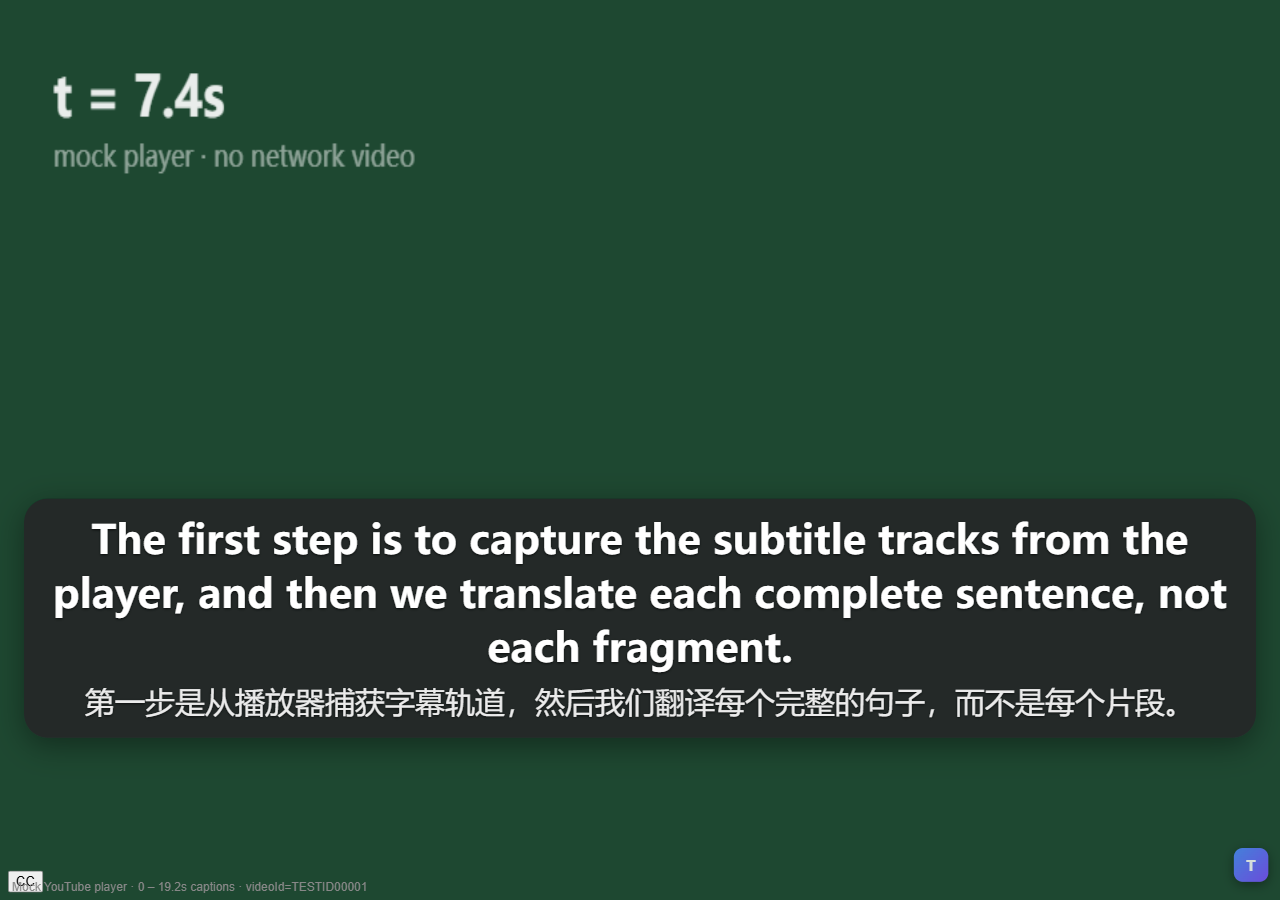
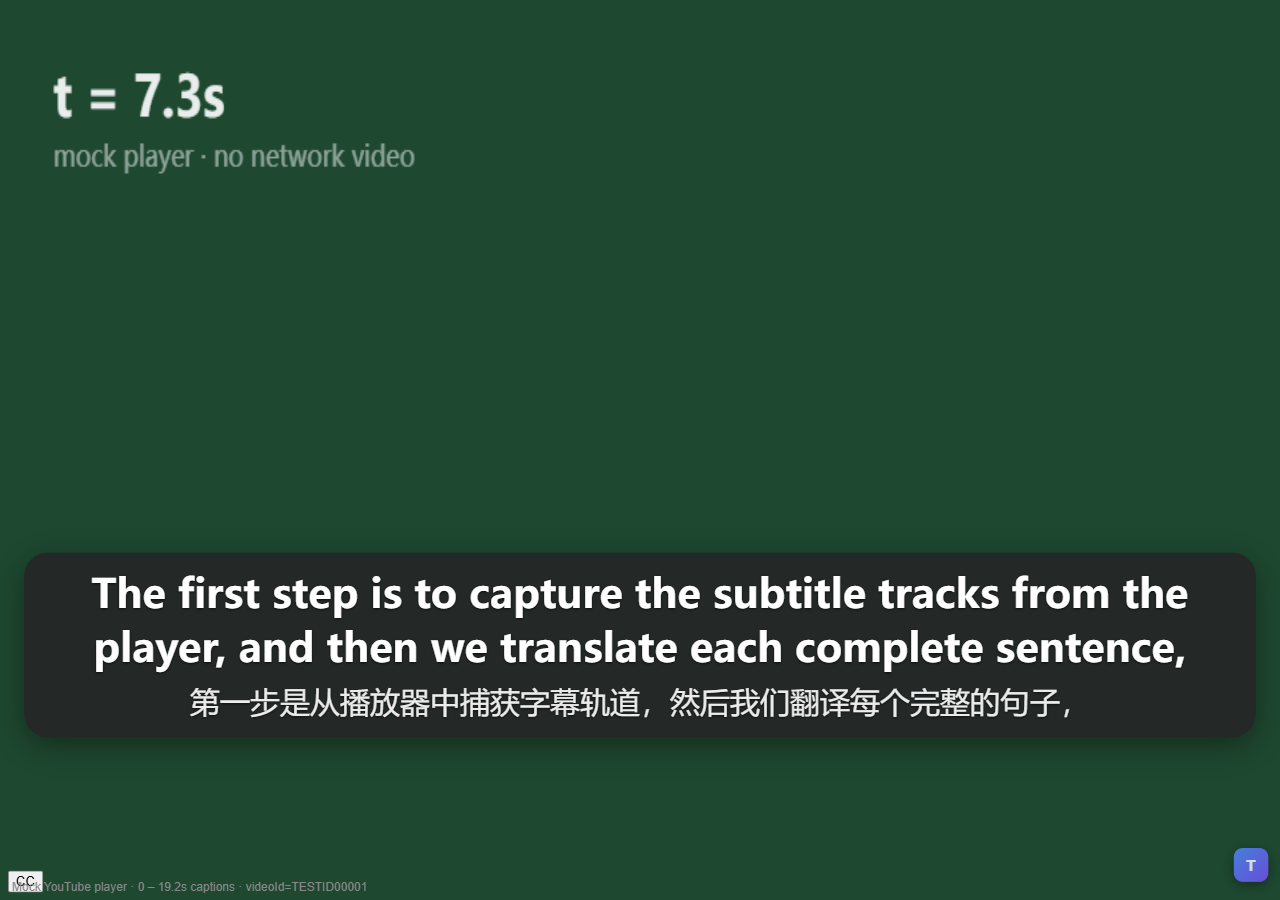
fix: 长句不折行导致字幕框过高（maxLen 180→120 + 二次切分 + 自适应缩小）
截图里那句 190 字符的英文正好逃过 180 阈值，一整句撑满两行、配中文三行，
框高 171px 占 900px 画面的 19%，盖掉近四分之一画面。

分两层修，单靠哪一层都不够：
1. maxLen 180→120，新增 splitLong() 二次切分。不是按 120 硬切 ——
   硬切会把词切两半、也会切出 18 字符的孤儿片段。做法是先算段数再均分，
   在 target±35% 内优先断在逗号处，其次找「最近」的空格（取最靠后会切出
   超过 maxLen 的段，第一版就犯了这个错，实测切出 134 字符）。尾巴短于
   26 字符并回上一段。切段后时间轴按字符数比例分配，否则 findByTime
   只命中第一段。
2. fitToFrame() 兜底。字号可调到 48px、全屏还有 --trace-vscale 放大，
   拆分拦不住。框高超过画面 55% 就缩 --trace-fit，下限 0.62。

实测（1440x900、同一句 190 字符）：
  旧           171px  19.0%  —
  新           103px  11.4%  fit=1
  新+48px/1.6  498px  55.3%  fit=0.936
修复后长句与短句框高都是 103px，框高不再随句长变化。

十套回归全绿；README 新增 bug 14 与 splitLong/fitToFrame 两节说明。

Changed region(s): [[0.0, 0.5289, 1.0, 0.8089], [0.125, 0.0622, 0.1562, 0.1244]]

diff --git a/trace-subtitles/subtitles.js b/trace-subtitles/subtitles.js
@@ -13,6 +13,67 @@
 
   const SENT_END = /[.!?。！？…]["'”’)）\]]*\s*$/;
   const CLAUSE_END = /[,;:，；：、]\s*$/;
+  /** 拆分后每段的最小长度，太短的尾巴（"not each fragment."）要并进相邻段 */
+  const MIN_PART = 26;
+
+  /**
+   * 把一句太长的文本切成若干段，每段尽量不超过 maxLen。
+   *
+   * 为什么不用「按 maxLen 硬切」：硬切会把词切两半、也会切出 "not each
+   * fragment." 这种 18 字符的孤儿片段，单独闪一下反而更打断阅读。
+   * 所以先算需要几段（n），再按 n 均分（target），并在接近 target 时
+   * 优先断在逗号/分号后面 —— 断在标点处的语义完整性最好。
+   */
+  function splitLong(text, maxLen) {
+    const t = String(text || '').trim();
+    if (!t || t.length <= maxLen) return [{ text: t }];
+
+    const n = Math.ceil(t.length / maxLen);
+    const target = Math.ceil(t.length / n);
+
+    // 先找标点位置（逗号类），断点优先落在这些位置之后
+    const clauseAt = [];
+    const reClause = /[,;:，；：、]\s+/g;
+    let mc;
+    while ((mc = reClause.exec(t))) clauseAt.push(mc.index + mc[0].length);
+
+    const parts = [];
+    let rest = t;
+    while (rest.length > target && parts.length < n - 1) {
+      const lo = Math.max(MIN_PART, Math.floor(target * 0.65));
+      const hi = Math.min(rest.length - MIN_PART, Math.ceil(target * 1.35));
+      let cut = -1;
+      // 优先：该范围内的标点断点
+      for (const p of clauseAt) {
+        if (p >= lo && p <= hi) { cut = p; break; }
+      }
+      if (cut < 0) {
+        // 其次：从 target 往外找最近的空格（先往下、再往上）。
+        // 必须「就近」而不是「最靠后」—— 取最靠后会切出超过 maxLen 的长段，
+        // 等于白拆。
+        for (let d = 0; d <= target && cut < 0; d++) {
+          for (const i of [target - d, target + d]) {
+            if (i >= lo && i <= hi && rest[i] === ' ') { cut = i + 1; break; }
+          }
+        }
+      }
+      if (cut < 0) {
+        // 整段没有空格（极端 ASR 产物）→ 只能硬切，否则死循环
+        cut = Math.min(target, rest.length);
+      }
+      parts.push(rest.slice(0, cut).trim());
+      rest = rest.slice(cut).trim();
+      if (!rest) break;
+    }
+    if (rest) parts.push(rest);
+
+    // 尾巴过短就并回上一段（宁可让上一段略长，也不要单独闪一个短片段）
+    if (parts.length > 1 && parts[parts.length - 1].length < MIN_PART) {
+      const tail = parts.pop();
+      parts[parts.length - 1] += ' ' + tail;
+    }
+    return parts.map((p) => ({ text: p }));
+  }
 
   /** 解析 json3 */
   function parseJson3(text) {
@@ -82,15 +143,42 @@
    * 把碎片行合并成句子。
    * 规则：遇到句末标点就收句；单句过长（>maxLen）在逗号处断开；
    * 相邻行间隔过大（>gap）也断开。
+   *
+   * maxLen 从 180 收到 120：
+   *   180 的时候，字幕框最宽可到 1180px，一句 130 字符的英文能撑满两行、
+   *   配上中文三行，整个框能占到画面高度的 40%（见 README 的「长句折行」一节）。
+   *   收到 120 之后，多数长句会在逗号处断成两段，每段一行，框高收敛到两行左右。
+   *   代价是「半句」也会被当成一段送翻译 —— 机翻按逗号断句是可接受的，
+   *   而断在逗号处的语义完整性比断在任意位置好得多。
    */
-  function segment(rows, { maxLen = 180, gap = 2.0 } = {}) {
+  function segment(rows, { maxLen = 120, gap = 2.0 } = {}) {
     const sentences = [];
     let cur = null;
 
     const flush = () => {
       if (cur && cur.text.trim()) {
         cur.text = cur.text.replace(/\s+/g, ' ').trim();
-        sentences.push(cur);
+        // 太长的句子（没有逗号可断的那种）交给 splitLong 二次切分
+        const parts = splitLong(cur.text, maxLen);
+        if (parts.length <= 1) {
+          sentences.push(cur);
+        } else {
+          // 切成了多段：时间轴按字符数比例分配，否则 findByTime 只会命中第一段，
+          // 后面几段永远显示不出来。
+          const total = cur.text.length;
+          const span = Math.max(0.3, cur.end - cur.start);
+          let acc = 0;
+          for (const part of parts) {
+            const share = part.text.length / total;
+            sentences.push({
+              ...cur,
+              start: cur.start + span * acc,
+              end: cur.start + span * (acc + share),
+              text: part.text,
+            });
+            acc += share;
+          }
+        }
       }
       cur = null;
     };

diff --git a/trace-subtitles/content.js b/trace-subtitles/content.js
@@ -706,6 +706,33 @@
     }
     // 句子变长/变短后框高可能变化，自由模式下重新夹一次纵向位置，避免下半截出画面
     if (state.settings?.freePos) reapplyFreePos();
+    fitToFrame();
+  }
+
+  /**
+   * 字幕框太高时按比例缩小字号，让它留在视频画面里。
+   *
+   * 为什么需要：句子长度差异极大（"Yes." 到 300 字符的 ASR 长句），
+   * 固定字号下长句能把框撑到视频画面的一半以上，把画面盖掉。
+   * 只靠 subtitles.js 的 splitLong 不够 —— 拆分有 300 字符硬上限，
+   * 而且用户可以把字号调到 48px。
+   *
+   * 做法：量出框的自然高度，如果超过画面高度的 55%，就按超出比例
+   * 缩小 --trace-fit（CSS 里与 --trace-font-scale 相乘）。
+   * 下限 0.62，再小就不可读了 —— 到那时宁可让框超出，也不缩成蚂蚁字。
+   */
+  function fitToFrame() {
+    if (!overlayEl || !boxEl) return;
+    const g = overlayGeom();
+    if (!g.height) return;
+    // 先复位再量，否则上一句的缩小值会影响这次测量
+    overlayEl.style.setProperty('--trace-fit', '1');
+    const h = boxEl.offsetHeight || 0;
+    if (!h) return;
+    const budget = g.height * 0.55;
+    if (h <= budget) return;
+    const fit = Math.max(0.62, budget / h);
+    overlayEl.style.setProperty('--trace-fit', fit.toFixed(3));
   }
 
   /**

diff --git a/trace-subtitles/overlay.css b/trace-subtitles/overlay.css
@@ -16,6 +16,9 @@
   --trace-vscale: 1;
   /* 页内设置面板在覆盖层坐标系里占掉的右侧宽度（px），由 JS 实测写入 */
   --trace-panel-reserve: 0px;
+  /* 超长句的自适应缩小系数（0.62~1），由 content.js 的 fitToFrame() 写入。
+     与 --trace-font-scale 相乘，用户设的字号仍是基准。 */
+  --trace-fit: 1;
   /* 覆盖层不再贴满视口，而是精确覆盖视频框：JS 写 left/top/width/height。
      这样字幕的百分比位置、最大宽度都相对视频，而不是相对浏览器窗口。 */
   position: fixed;
@@ -144,7 +147,7 @@
 }
 
 #trace-sub-overlay .trace-sub-orig {
-  font-size: calc(var(--trace-orig-size) * var(--trace-font-scale) * var(--trace-vscale));
+  font-size: calc(var(--trace-orig-size) * var(--trace-font-scale) * var(--trace-vscale) * var(--trace-fit));
   line-height: 1.34;
   color: var(--trace-orig-color);
   font-weight: 600;
@@ -155,7 +158,7 @@
 
 #trace-sub-overlay .trace-sub-trans {
   margin-top: 7px;
-  font-size: calc(var(--trace-trans-size) * var(--trace-font-scale) * var(--trace-vscale));
+  font-size: calc(var(--trace-trans-size) * var(--trace-font-scale) * var(--trace-vscale) * var(--trace-fit));
   line-height: 1.45;
   color: var(--trace-trans-color);
   font-weight: 400;
